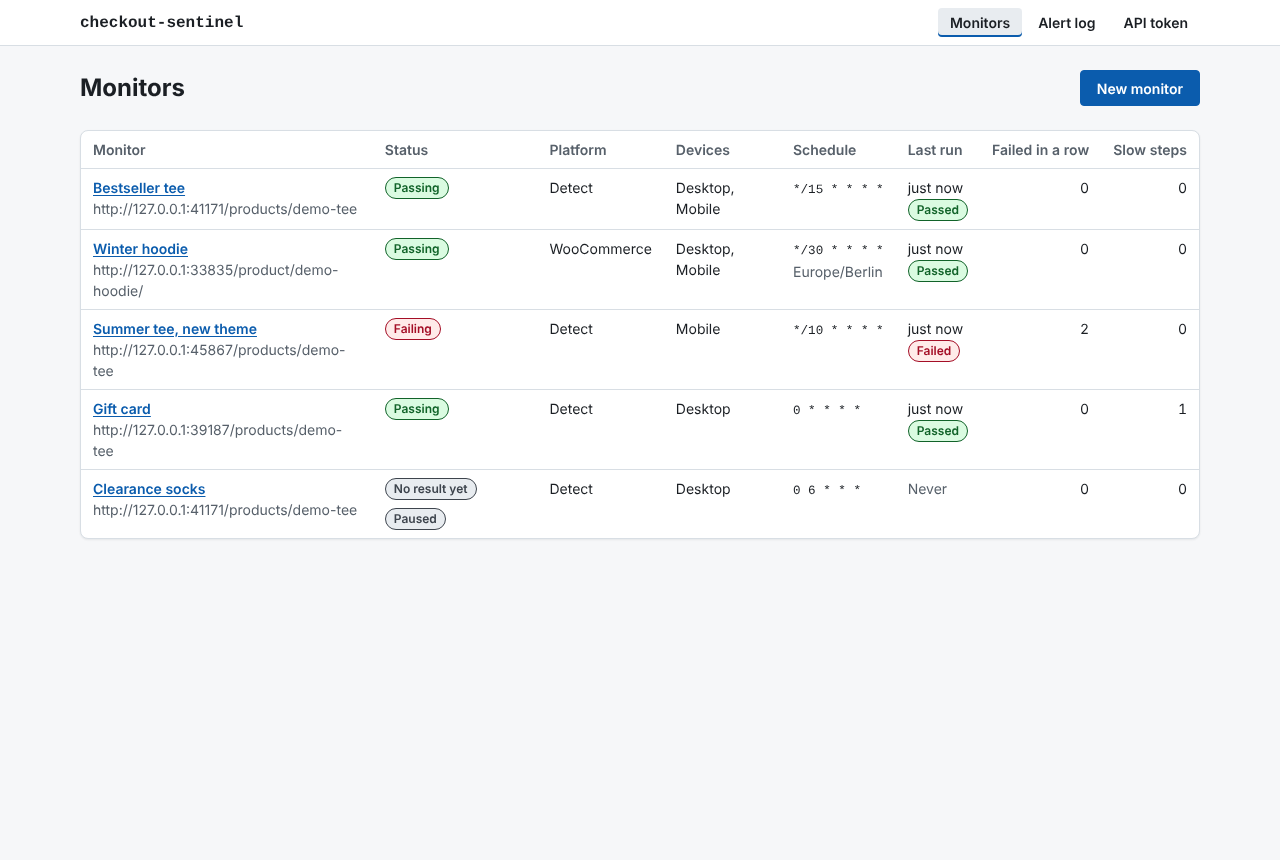
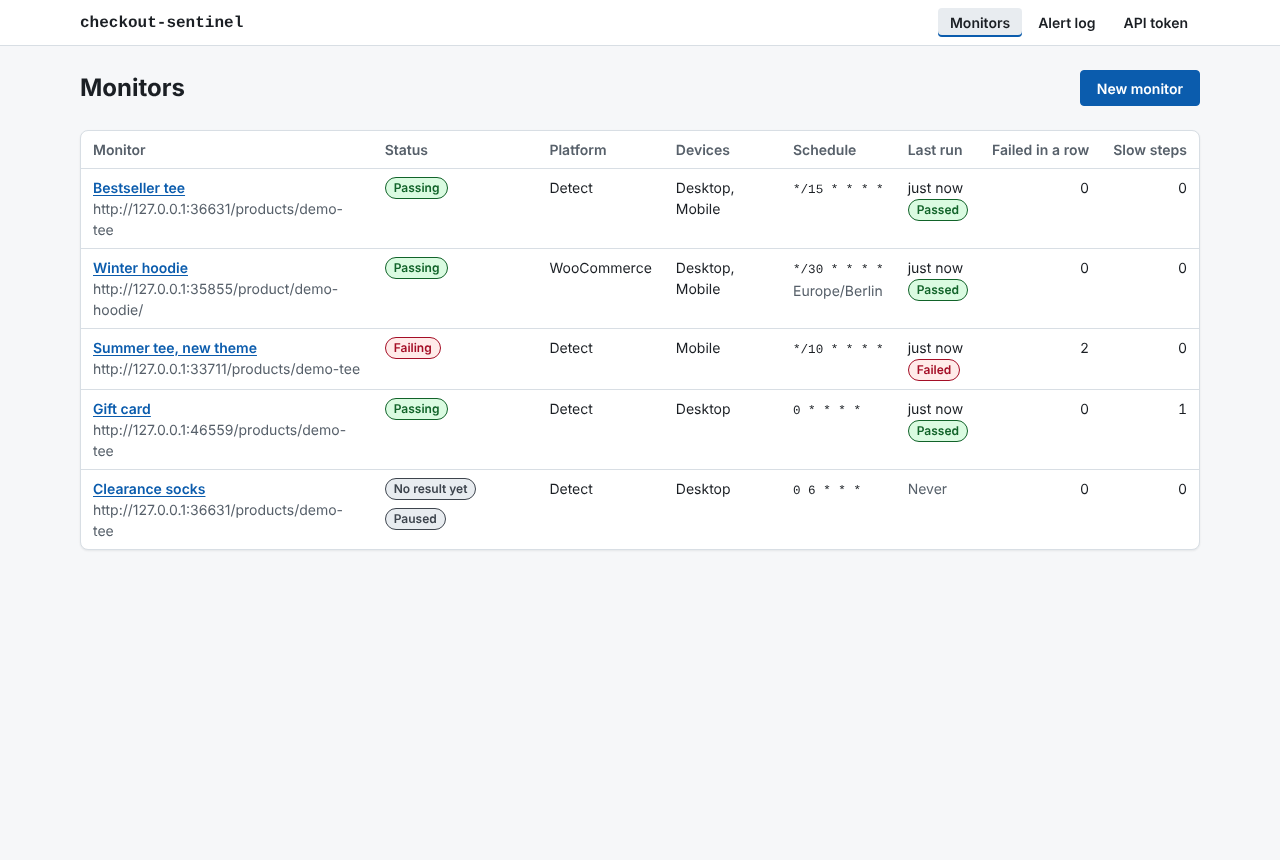
fix(web): write store platforms as Shopify and WooCommerce
The monitor settings, the run summary and each journey header showed
the platform as the API sends it ("shopify", "woocommerce"), while the
monitors list wrote the names properly. All four places now use one
platformName helper. The README screenshots are retaken from new runs
against the fixture stores.

Claude-Session: https://claude.ai/code/session_019tpGUuZk5QU8Fd6pKpAYHh

diff --git a/apps/web/src/views/MonitorDetailView.vue b/apps/web/src/views/MonitorDetailView.vue
@@ -9,7 +9,7 @@ import TimeAgo from '../components/TimeAgo.vue';
 import { useApi } from '../composables/api';
 import { usePoll } from '../composables/poll';
 import { usePageTitle } from '../composables/title';
-import { capitalize, formatDateTime, formatDuration, stepLabel } from '../lib/format';
+import { capitalize, formatDateTime, formatDuration, platformName, stepLabel } from '../lib/format';
 
 const props = defineProps<{ id: string }>();
 
@@ -272,7 +272,13 @@ const channelLabel = (channel: Monitor['alerts'][number]) =>
         <h2 id="settings-title">Settings</h2>
         <dl class="definition-list">
           <dt>Platform</dt>
-          <dd>{{ monitor.platform === 'auto' ? 'Detected from the page' : monitor.platform }}</dd>
+          <dd>
+            {{
+              monitor.platform === 'auto'
+                ? 'Detected from the page'
+                : platformName(monitor.platform)
+            }}
+          </dd>
           <dt>Devices</dt>
           <dd>{{ monitor.devices.map(capitalize).join(', ') }}</dd>
           <dt>Schedule</dt>

diff --git a/apps/web/src/components/StepTimeline.vue b/apps/web/src/components/StepTimeline.vue
@@ -2,7 +2,7 @@
 import { computed, useId } from 'vue';
 import type { JourneyResult, StepResult } from '@checkout-sentinel/core/schemas';
 import type { RunArtifact } from '../api/types';
-import { capitalize, formatDuration, stepLabel } from '../lib/format';
+import { capitalize, formatDuration, platformName, stepLabel } from '../lib/format';
 import ArtifactImage from './ArtifactImage.vue';
 import StatusBadge from './StatusBadge.vue';
 import TraceDownload from './TraceDownload.vue';
@@ -57,7 +57,8 @@ const stepStatus = (step: StepResult) =>
       <StatusBadge :status="journey.status" />
       <span class="muted">{{ formatDuration(journey.durationMs) }}</span>
       <span v-if="journey.platform" class="muted small">
-        Platform {{ journey.platform.used }} ({{ journey.platform.confidence }} confidence)
+        Platform {{ platformName(journey.platform.used) }} ({{ journey.platform.confidence }}
+        confidence)
       </span>
       <TraceDownload v-if="trace" :run-id="runId" :name="trace.name" :device="journey.device" />
     </div>

diff --git a/apps/web/src/views/RunDetailView.vue b/apps/web/src/views/RunDetailView.vue
@@ -7,7 +7,7 @@ import StepTimeline from '../components/StepTimeline.vue';
 import { useApi } from '../composables/api';
 import { usePoll } from '../composables/poll';
 import { usePageTitle } from '../composables/title';
-import { capitalize, formatDateTime, formatDuration, stepLabel } from '../lib/format';
+import { capitalize, formatDateTime, formatDuration, platformName, stepLabel } from '../lib/format';
 
 const props = defineProps<{ id: string }>();
 
@@ -98,7 +98,7 @@ usePoll(async () => {
           <dd>{{ run.finishedAt ? formatDateTime(run.finishedAt) : 'Not yet' }}</dd>
           <template v-if="run.detectedPlatform">
             <dt>Detected platform</dt>
-            <dd>{{ run.detectedPlatform }}</dd>
+            <dd>{{ platformName(run.detectedPlatform) }}</dd>
           </template>
           <template v-if="run.failedStep">
             <dt>First failed step</dt>

diff --git a/apps/web/test/unit/format.test.ts b/apps/web/test/unit/format.test.ts
@@ -1,5 +1,5 @@
 import { describe, expect, it } from 'vitest';
-import { formatDuration, relativeTime, stepLabel } from '../../src/lib/format';
+import { formatDuration, platformName, relativeTime, stepLabel } from '../../src/lib/format';
 
 describe('formatDuration', () => {
   it('matches the CLI: milliseconds under a second, then seconds with two decimals', () => {
@@ -25,5 +25,13 @@ describe('stepLabel', () => {
   it('turns step names into words', () => {
     expect(stepLabel('find_add_to_cart')).toBe('Find add to cart');
     expect(stepLabel('checkout_renders')).toBe('Checkout renders');
+  });
+});
+
+describe('platformName', () => {
+  it('writes platforms the way their makers do', () => {
+    expect(platformName('shopify')).toBe('Shopify');
+    expect(platformName('woocommerce')).toBe('WooCommerce');
+    expect(platformName('unknown')).toBe('Unknown');
   });
 });

diff --git a/apps/web/src/views/MonitorsView.vue b/apps/web/src/views/MonitorsView.vue
@@ -7,7 +7,7 @@ import TimeAgo from '../components/TimeAgo.vue';
 import { useApi } from '../composables/api';
 import { usePoll } from '../composables/poll';
 import { usePageTitle } from '../composables/title';
-import { capitalize } from '../lib/format';
+import { capitalize, platformName } from '../lib/format';
 
 usePageTitle('Monitors');
 const api = useApi();
@@ -27,7 +27,7 @@ onMounted(load);
 usePoll(load, 15_000);
 
 const platformLabel = (platform: Monitor['platform']) =>
-  platform === 'auto' ? 'Detect' : platform === 'woocommerce' ? 'WooCommerce' : 'Shopify';
+  platform === 'auto' ? 'Detect' : platformName(platform);
 </script>
 
 <template>

diff --git a/apps/web/src/lib/format.ts b/apps/web/src/lib/format.ts
@@ -39,3 +39,9 @@ export function stepLabel(name: string): string {
 export function capitalize(text: string): string {
   return text.charAt(0).toUpperCase() + text.slice(1);
 }
+
+const PLATFORM_NAMES: Record<string, string> = { shopify: 'Shopify', woocommerce: 'WooCommerce' };
+
+export function platformName(platform: string): string {
+  return PLATFORM_NAMES[platform] ?? capitalize(platform);
+}
